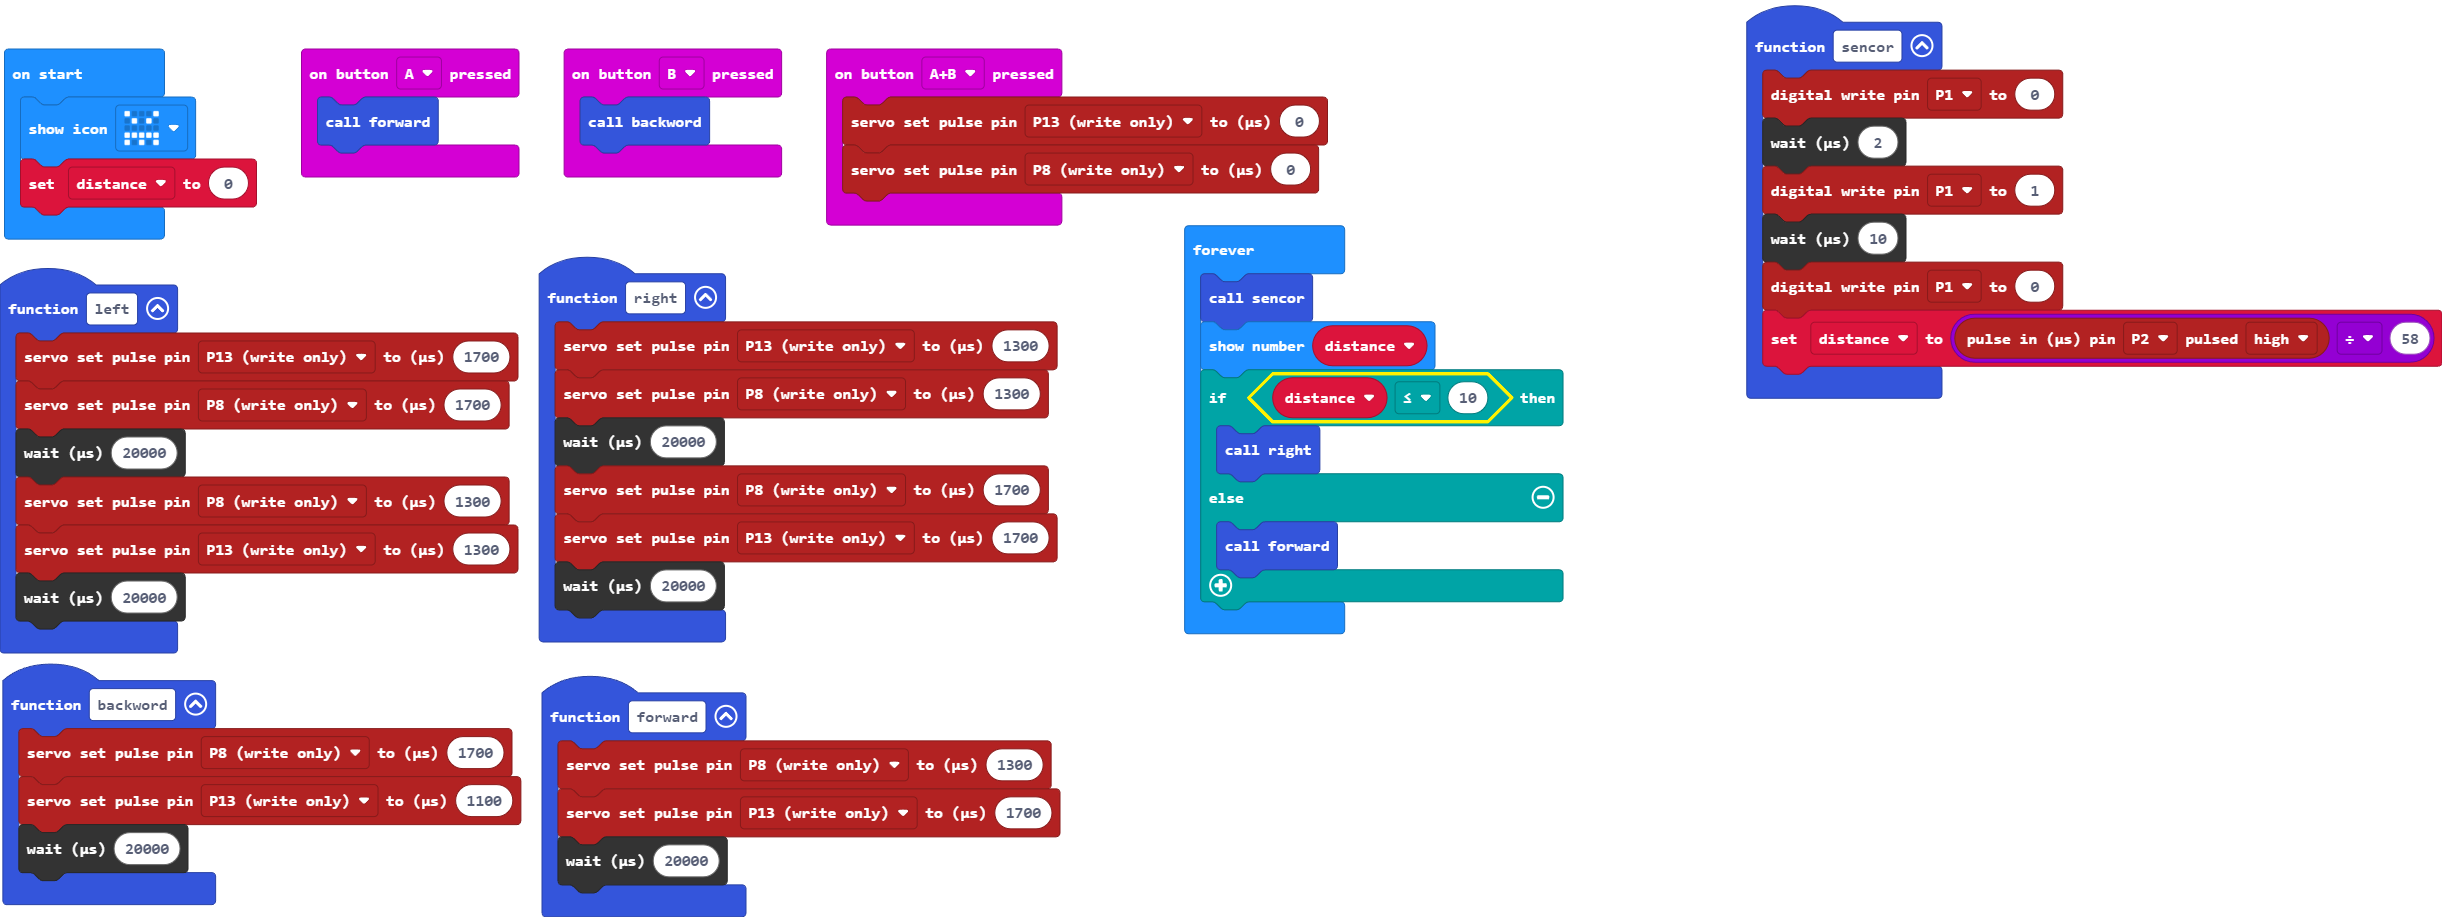
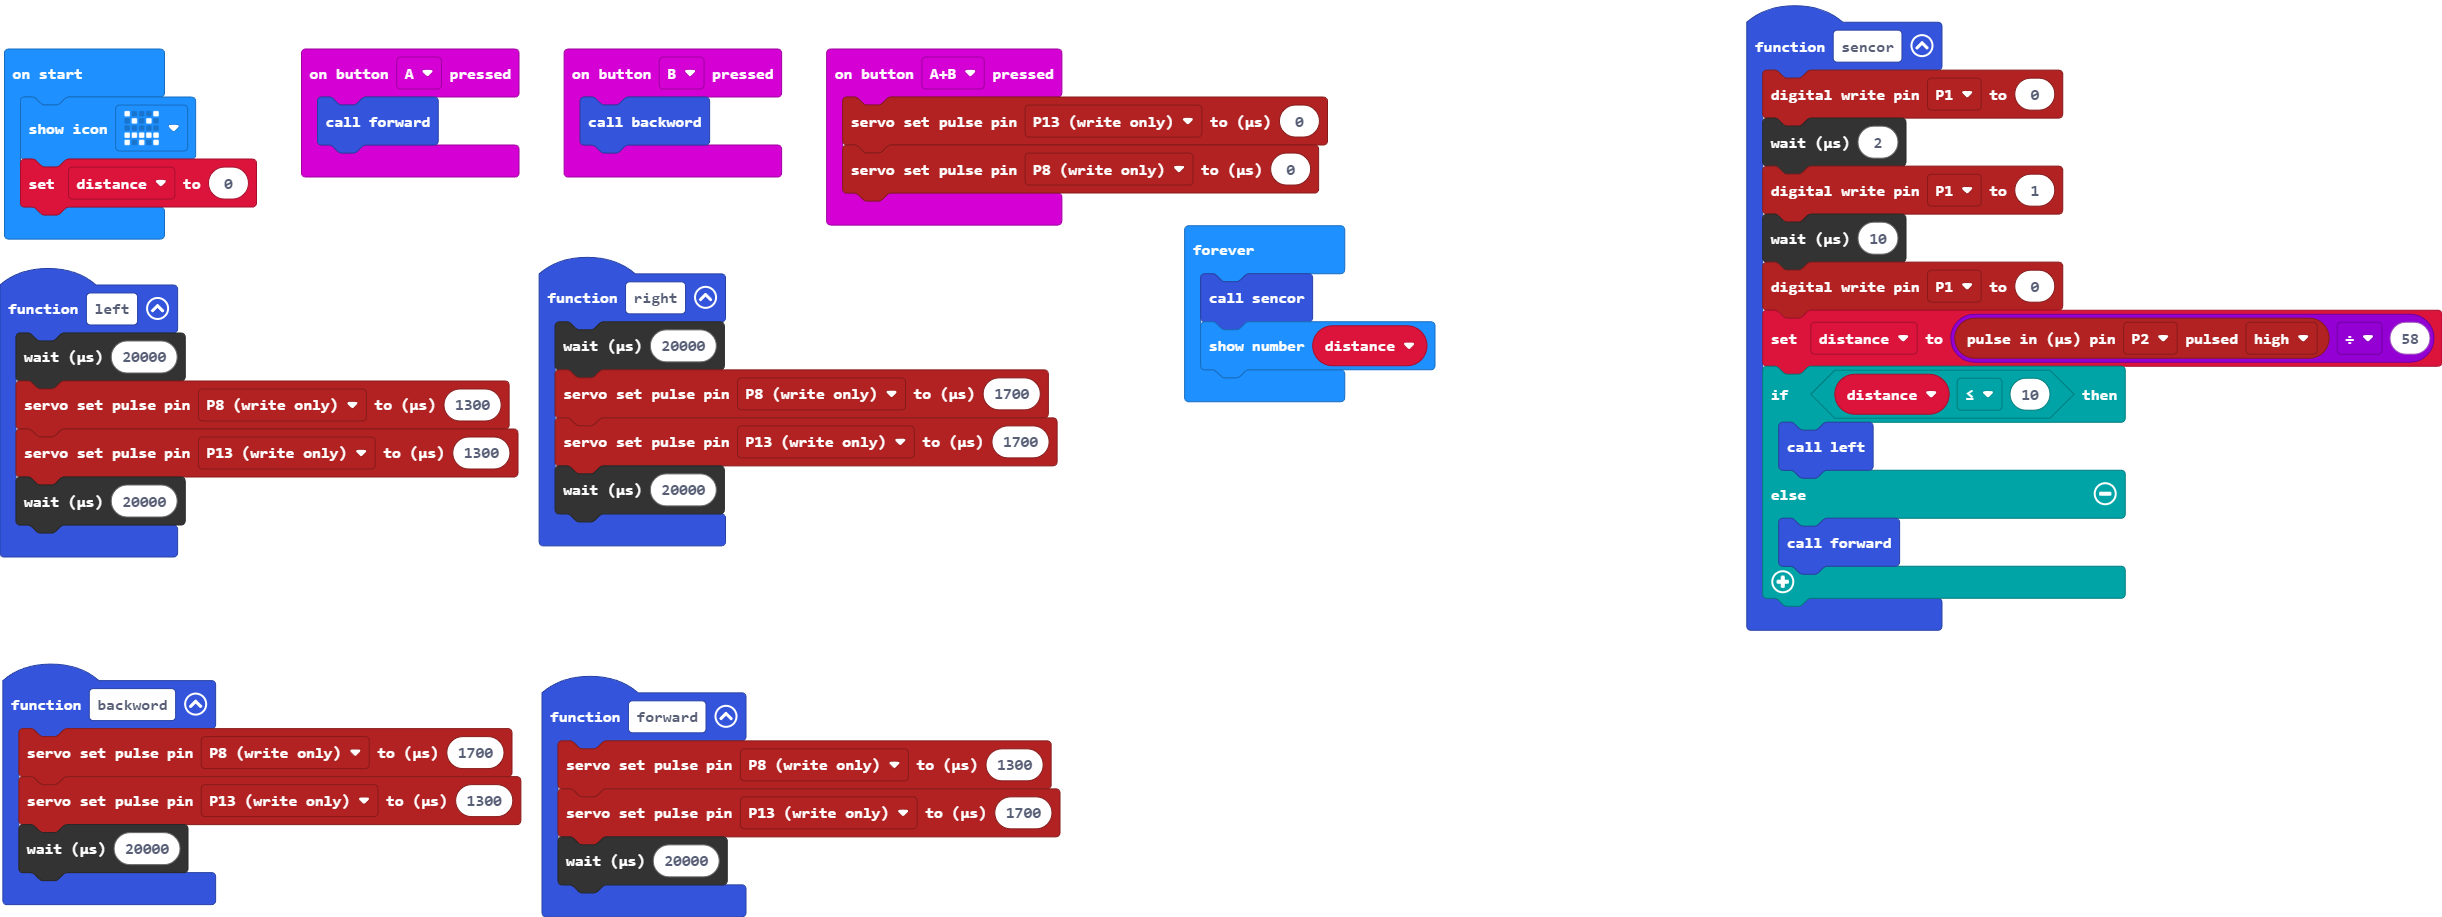
Update main.blocks, main.ts

Changed region(s): [[0.0, 0.3359, 0.4357, 0.7328], [0.4668, 0.3969, 0.6536, 0.7023], [0.7158, 0.3969, 0.8714, 0.7023]]

diff --git a/main.ts b/main.ts
@@ -1,6 +1,4 @@
 function right () {
-    pins.servoSetPulse(AnalogPin.P13, 1300)
-    pins.servoSetPulse(AnalogPin.P8, 1300)
     control.waitMicros(20000)
     pins.servoSetPulse(AnalogPin.P8, 1700)
     pins.servoSetPulse(AnalogPin.P13, 1700)
@@ -8,12 +6,10 @@ function right () {
 }
 function backword () {
     pins.servoSetPulse(AnalogPin.P8, 1700)
-    pins.servoSetPulse(AnalogPin.P13, 1100)
+    pins.servoSetPulse(AnalogPin.P13, 1300)
     control.waitMicros(20000)
 }
 function left () {
-    pins.servoSetPulse(AnalogPin.P13, 1700)
-    pins.servoSetPulse(AnalogPin.P8, 1700)
     control.waitMicros(20000)
     pins.servoSetPulse(AnalogPin.P8, 1300)
     pins.servoSetPulse(AnalogPin.P13, 1300)
@@ -29,6 +25,11 @@ function sencor () {
     control.waitMicros(10)
     pins.digitalWritePin(DigitalPin.P1, 0)
     distance = pins.pulseIn(DigitalPin.P2, PulseValue.High) / 58
+    if (distance <= 10) {
+        left()
+    } else {
+        forward()
+    }
 }
 input.onButtonPressed(Button.AB, function () {
     pins.servoSetPulse(AnalogPin.P13, 0)
@@ -48,9 +49,4 @@ distance = 0
 basic.forever(function () {
     sencor()
     basic.showNumber(distance)
-    if (distance <= 10) {
-        right()
-    } else {
-        forward()
-    }
 })
